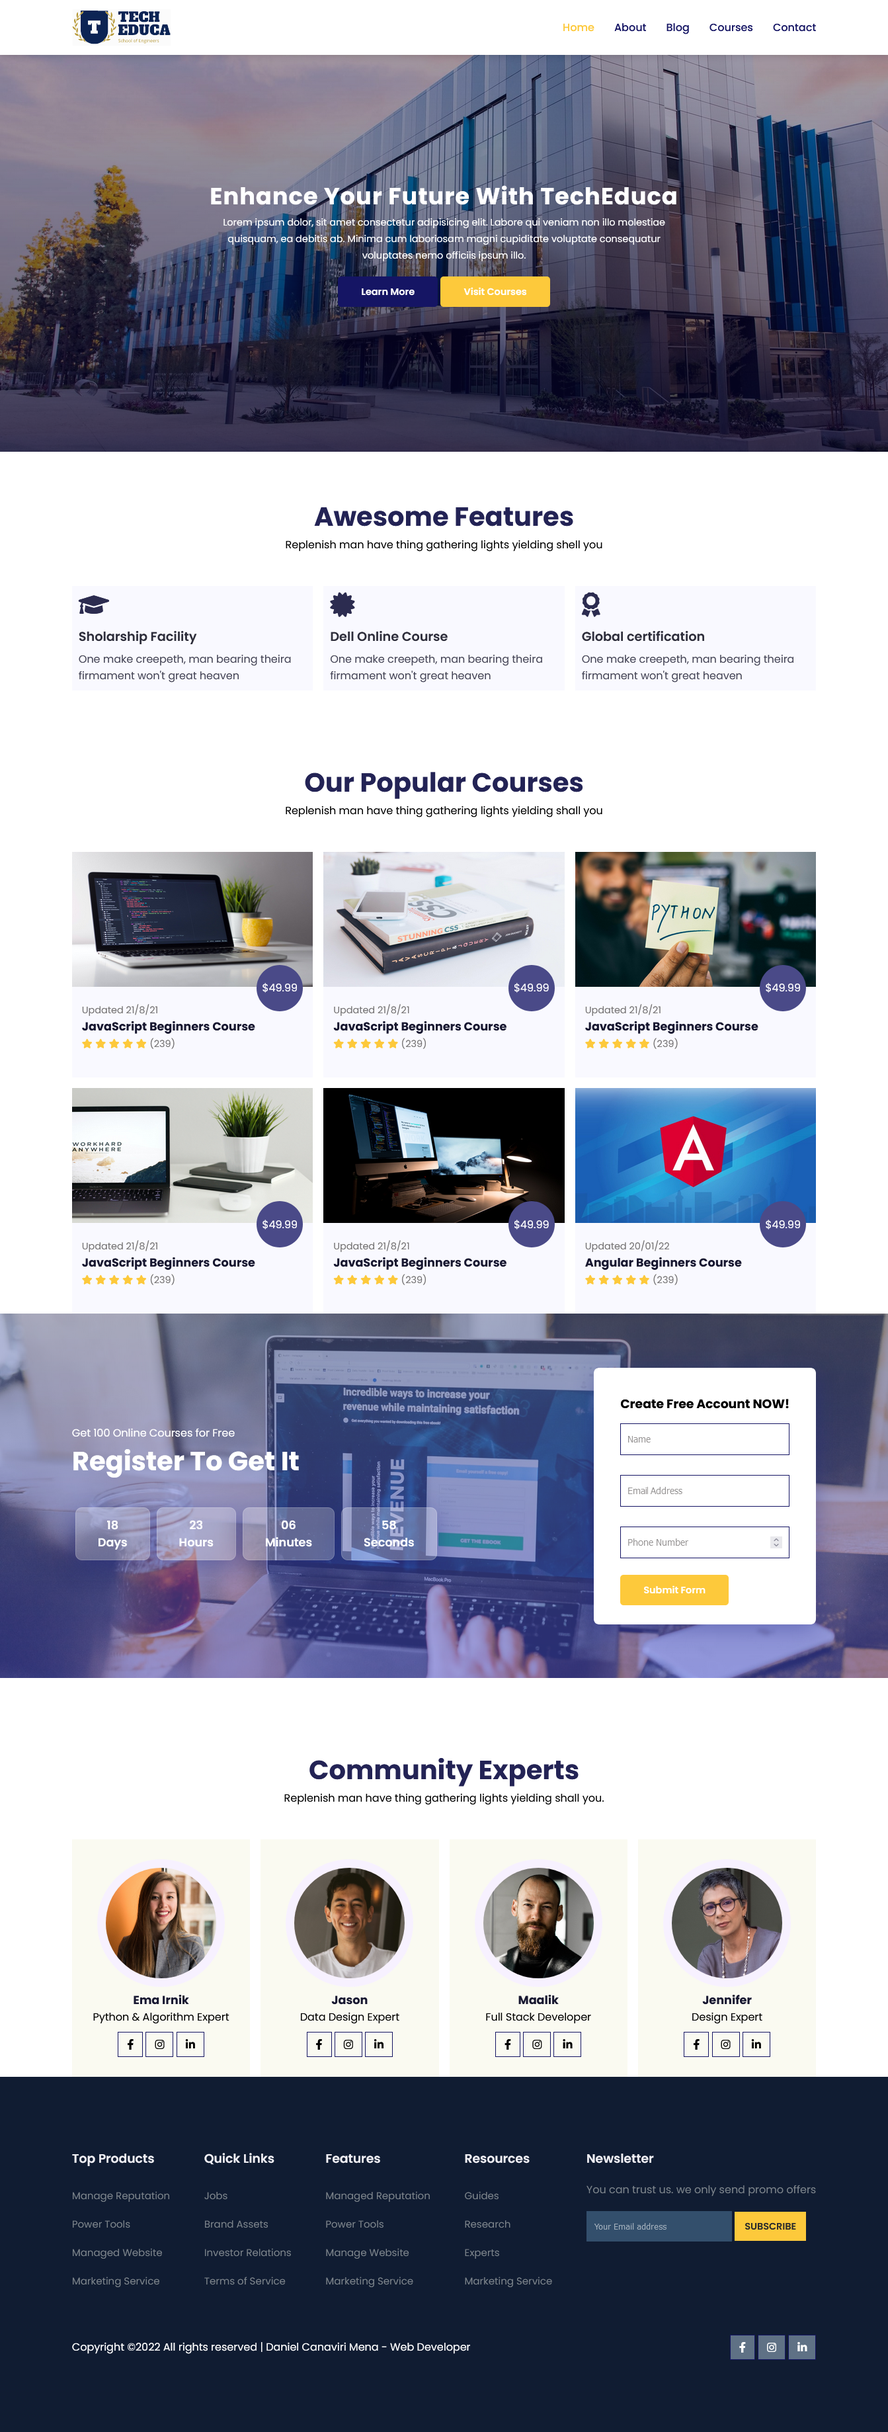
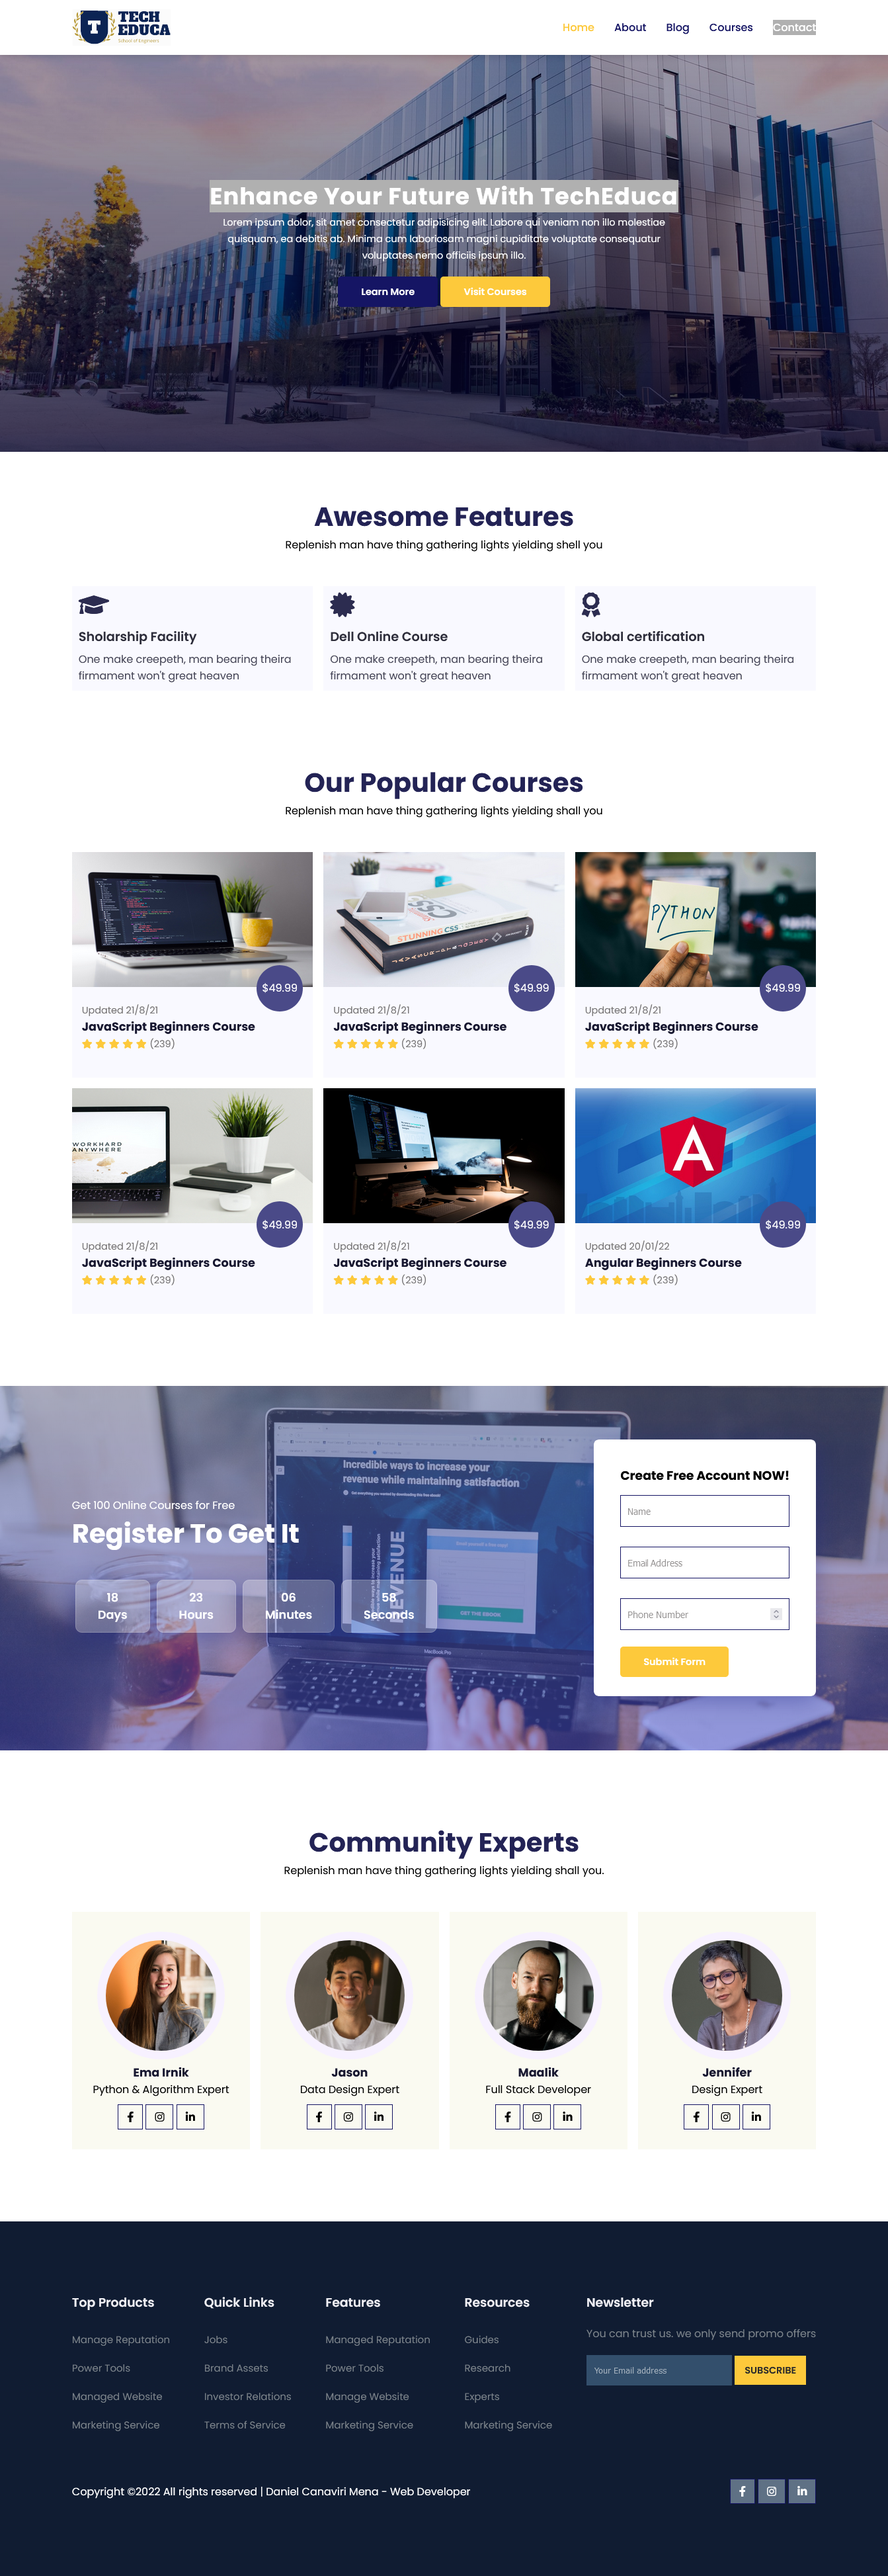
Diseño modo Tablet Finalizado

diff --git a/styles.css b/styles.css
@@ -47,6 +47,20 @@ nav img {
     cursor: pointer;
 }
 
+nav .navigation {
+    display: flex;
+}
+
+#menu-btn {
+    width: 30px;
+    height: 30px;
+    display: none;
+}
+
+#menu-close {
+    display: none;
+}
+
 nav .navigation ul{
     display: flex;
     justify-content: flex-end;
@@ -431,6 +445,117 @@ footer .copyright .pro-links i {
 footer .copyright .pro-links i:hover {
     background: #FDC93B;
     color: #2C2C2C;
+}
+
+/* MEDIA QUERIES */
+@media (max-width: 769px) {
+    nav {
+        padding: 15px 20px;
+    }
+
+    nav img {
+        width: 130px;
+    }
+
+    #menu-btn {
+        display: initial;
+    }
+
+    #menu-close {
+        display: initial;
+        font-size: 1.6rem;
+        color: #fff;
+        padding: 30px 0 20px 20px;
+        cursor: pointer;
+    }
+
+    nav .navigation ul {
+        position: absolute;
+        top: 0;
+        right: -220px;
+        width: 220px;
+        height: 100vh;
+        background: rgba(17, 20, 104, 0.45);
+        backdrop-filter: blur(4.5px);
+        border: 1px solid rgba(255, 255, 255, 0.18);
+        display: flex;
+        flex-direction: column;
+        justify-content: flex-start;
+        align-items: flex-start;
+        transition: 0.3s ease;
+    }
+
+    nav .navigation ul.active {
+        right: 0;
+    }
+
+    nav .navigation ul li {
+        padding: 20px 0 20px 40px;
+        margin-left: 0;
+    }
+
+    nav .navigation ul li a{
+        color: #fff;
+    }
+
+    #home {
+        padding-top: 0px;
+    }
+
+    #home p {
+        width: 90%;
+    }
+
+    #features {
+        padding: 8vw 4vw 8vw 4vw;
+    }
+
+    #course {
+        padding: 0vw 4vw 8vw 4vw;
+    }
+
+    #registration {
+        padding: 8vw 4vw 8vw 4vw;
+    }
+
+    #registration .reminder {
+        width: 50%;
+    }
+
+    #registration .reminder h1,
+    #registration .reminder p {
+        text-align: center;
+    }
+
+    #registration .reminder .time {
+        display: flex;
+        flex-wrap: wrap;
+        justify-content: space-between;
+        margin-top: 15px;
+        text-align: center;
+    }
+
+    #registration .reminder .time .date {
+        width: 160px;
+        font-size: 1rem;
+        margin: 10px 5px;
+    }
+
+    #experts {
+        padding: 8vw 4vw;
+        text-align: center;
+    }
+
+    footer {
+        padding: 8vw 4vw;
+    }
+
+    footer .copyright .pro-links {
+        margin-top: 15px;
+    }
+
+
+
 }
 
 

diff --git a/index.html b/index.html
@@ -7,6 +7,8 @@
         <link rel="stylesheet" href="css/all.min.css">
         <!-- CSS Files -->
         <link rel="stylesheet" href="styles.css">
+        <!-- Jquery 3.6.0 - CDN -->
+        <script src="https://code.jquery.com/jquery-3.6.0.min.js" integrity="sha256-/xUj+3OJU5yExlq6GSYGSHk7tPXikynS7ogEvDej/m4=" crossorigin="anonymous"></script>
     </head>
 
     <body>
@@ -17,13 +19,17 @@
 
             <div class="navigation">
                 <ul>
+                    <i id="menu-close" class="fas fa-times"></i>
                     <li><a href="#">Home</a></li>
                     <li><a href="#">About</a></li>
                     <li><a href="#">Blog</a></li>
                     <li><a href="#">Courses</a></li>
                     <li><a href="#">Contact</a></li>
                 </ul>
+
+                <img id="menu-btn" src="images/menu.png" alt="">
             </div>
+
         </nav>
 
         <!-- Home -->
@@ -381,9 +387,6 @@
             </div>
 
         </footer>
-
-
-
 
         <!-- JS Files -->
         <script src="app.js"></script>

diff --git a/app.js b/app.js
@@ -1,0 +1,7 @@
+$('#menu-btn').click(function() {
+    $('nav .navigation ul').addClass('active');
+});
+
+$('#menu-close').click(function() {
+    $('nav .navigation ul').removeClass('active');
+});

diff --git a/readme.md b/readme.md
@@ -5,6 +5,7 @@
 <p>Desktop View</p>
 <img src="images/imagen.png">
 
-
+<p>Tablet View</p>
+<img src="images/imagen-2.png">
 
 <p>Page Under Development</p>
